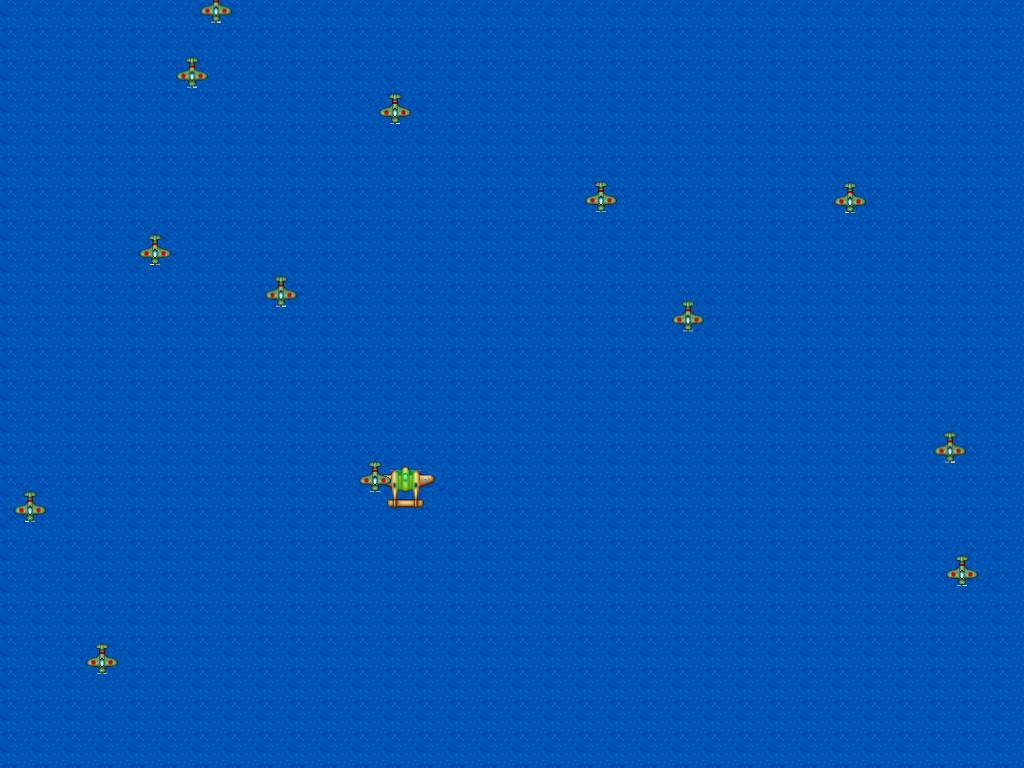
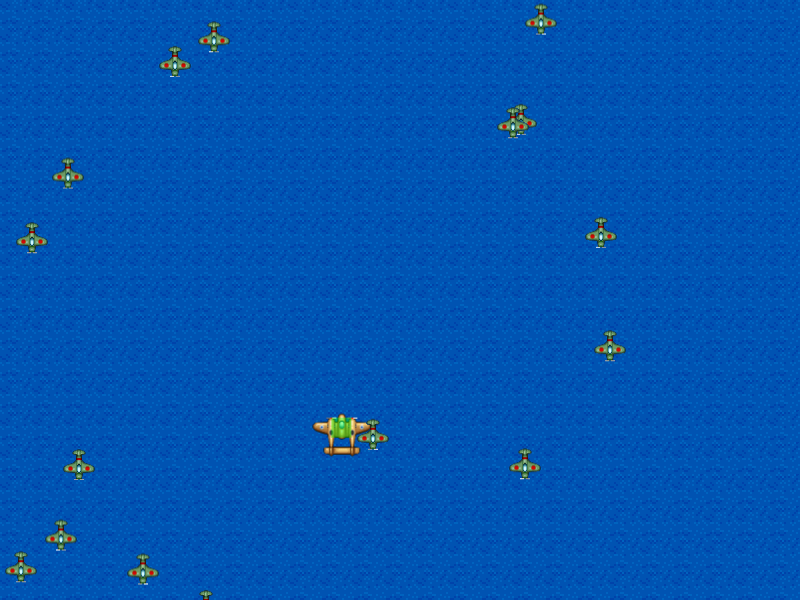
Update Groups chapter

diff --git a/manuscript/groups.md b/manuscript/groups.md
@@ -101,7 +101,7 @@ Switching from array to group means we need to modify our collision checking cod
 {leanpub-end-insert}
 ~~~~~~~~
 
-Bad news is that there seems to be a bug when comparing "Groups to Sprites" (see if you can notice it) but not in "Sprite to Groups" or "Group to Groups". This shouldn't be a problem since we're only doing the latter two.
+There is a minor quirk when comparing "Groups to Sprites" (see if you can notice it) that is not present in "Sprite to Groups" or "Group to Groups". This shouldn't be a problem since we're only doing the latter two after this section.
 
 ## Enemy Sprite Group
 
@@ -110,7 +110,7 @@ Our game would be boring if we only had one enemy. Let's make a sprite group so 
 {linenos=off,lang="js"}
 ~~~~~~~~
 {leanpub-start-delete}
-    this.enemy = this.add.sprite(512, 300, 'greenEnemy');
+    this.enemy = this.add.sprite(400, 200, 'greenEnemy');
     this.enemy.anchor.setTo(0.5, 0.5);
     this.enemy.animations.add('fly', [ 0, 1, 2 ], 20, true);
     this.enemy.play('fly');
@@ -169,7 +169,7 @@ Add this to the `update()` function:
       this.nextEnemyAt = this.time.now + this.enemyDelay;
       var enemy = this.enemyPool.getFirstExists(false);
       // spawn at a random location top of the screen
-      enemy.reset(this.rnd.integerInRange(20, 1004), 0);
+      enemy.reset(this.rnd.integerInRange(20, 780), 0);
       // also randomize the speed
       enemy.body.velocity.y = this.rnd.integerInRange(30, 60);
       enemy.play('fly');
@@ -249,6 +249,7 @@ Another possible issue is that our hitbox is too big because of our sprite. Let'
 {linenos=off,lang="js"}
 ~~~~~~~~
     this.physics.enable(this.player, Phaser.Physics.ARCADE);
+    this.player.speed = 300;
     this.player.body.collideWorldBounds = true;
 {leanpub-start-insert}
     // 20 x 20 pixel hitbox, centered a little bit higher than the center
@@ -258,7 +259,7 @@ Another possible issue is that our hitbox is too big because of our sprite. Let'
 
 This hitbox is pretty small, but it's still on par with other shoot em ups (some "bullet hell" type games even have a 1 pixel hitbox). Feel free to increase this if you want a challenge.
 
-Use the debug body function if you need to see your sprite's actual hitbox size.
+Use the debug body function if you need to see your sprite's actual hitbox size. Don't forget to remove it afterwards.
 
 {linenos=off,lang="js"}
 ~~~~~~~~
